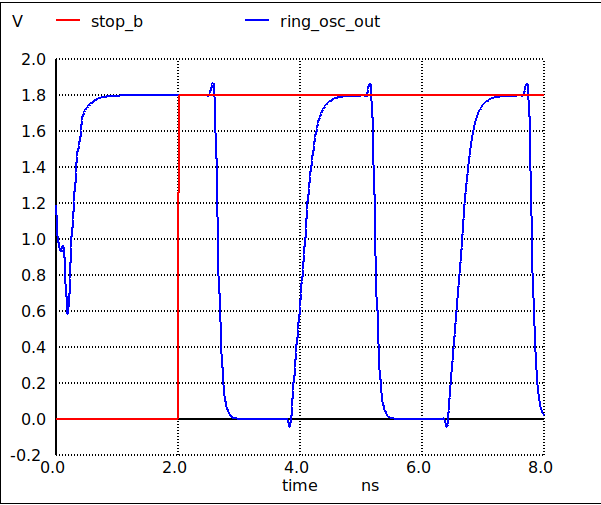
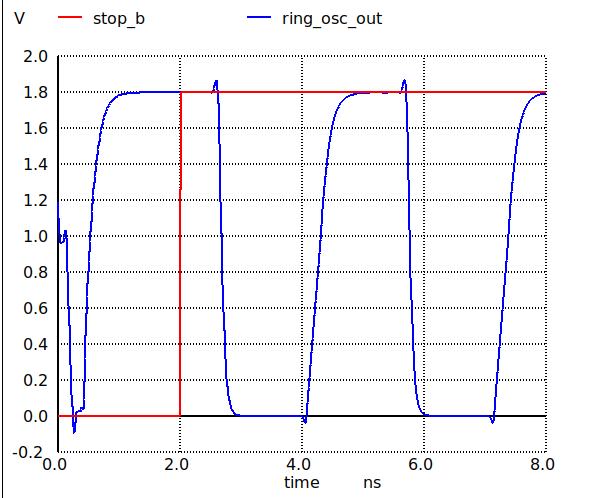
update docs for 31 inverter loop

diff --git a/docs/log.md b/docs/log.md
@@ -3,6 +3,20 @@
 * spoke with Eric, I was mistaken about needing to slow the loop down. Going to go with 31 inverters.
 * opinion on skywater slack is that the default sdc file used for opensta config sets a time on the outputs
 
+## bypass
+
+    loop_period         =  2.642542e-09 targ=  6.603628e-09 trig=  3.961086e-09
+    rise_time           =  3.585322e-10 targ=  4.029793e-09 trig=  3.671261e-09
+
+About 380MHz
+
+## adder
+
+    loop_period         =  3.075356e-09 targ=  7.481689e-09 trig=  4.406333e-09
+    rise_time           =  4.058680e-09 targ=  4.489440e-09 trig=  4.307598e-10
+
+About 325MHz
+
 # Wed  1 Jun 19:10:18 CEST 2022
 
 * working on putting inside the group project wrapper and thinking about wiring it up
